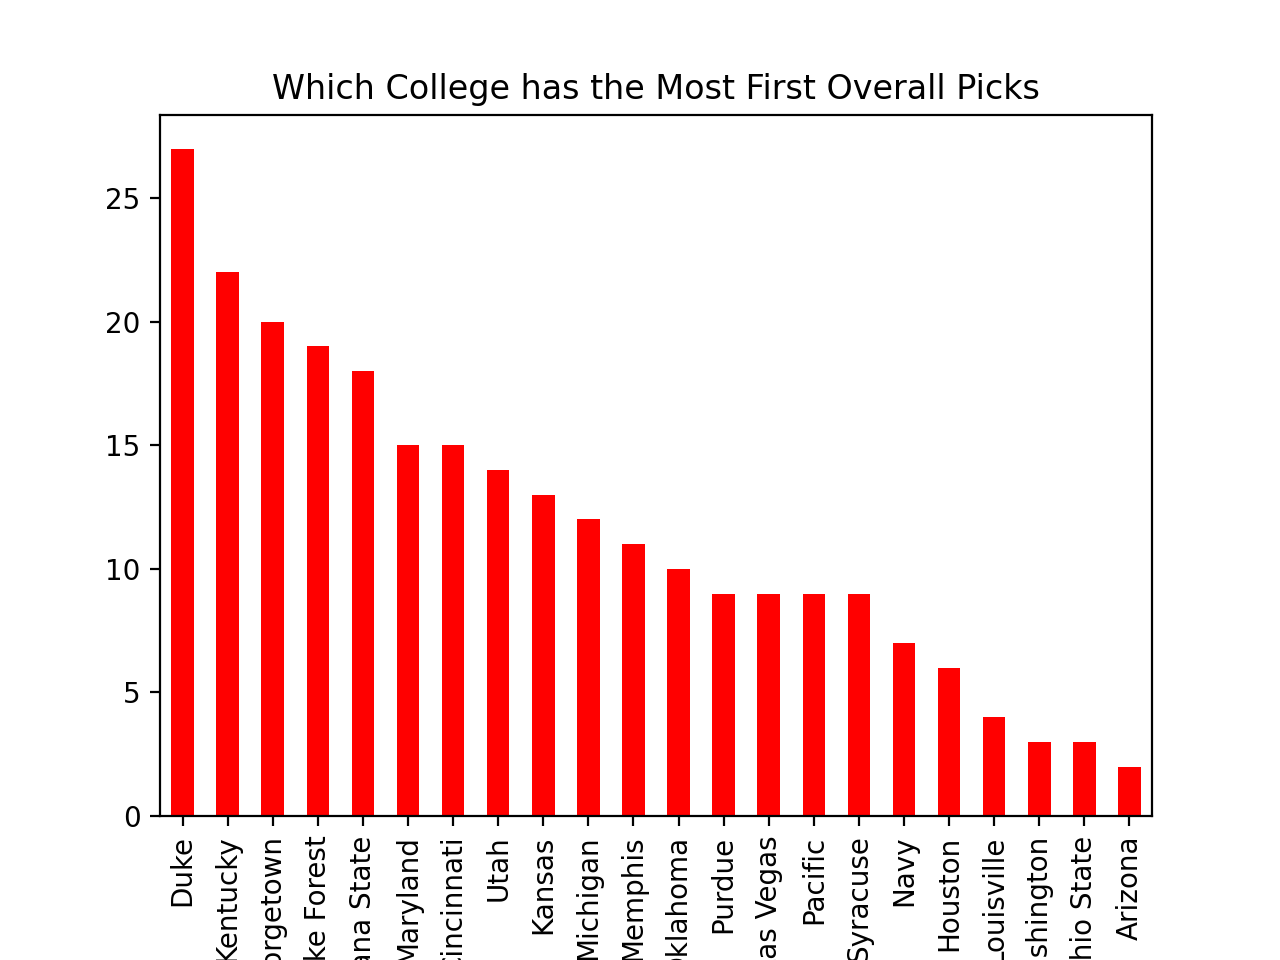
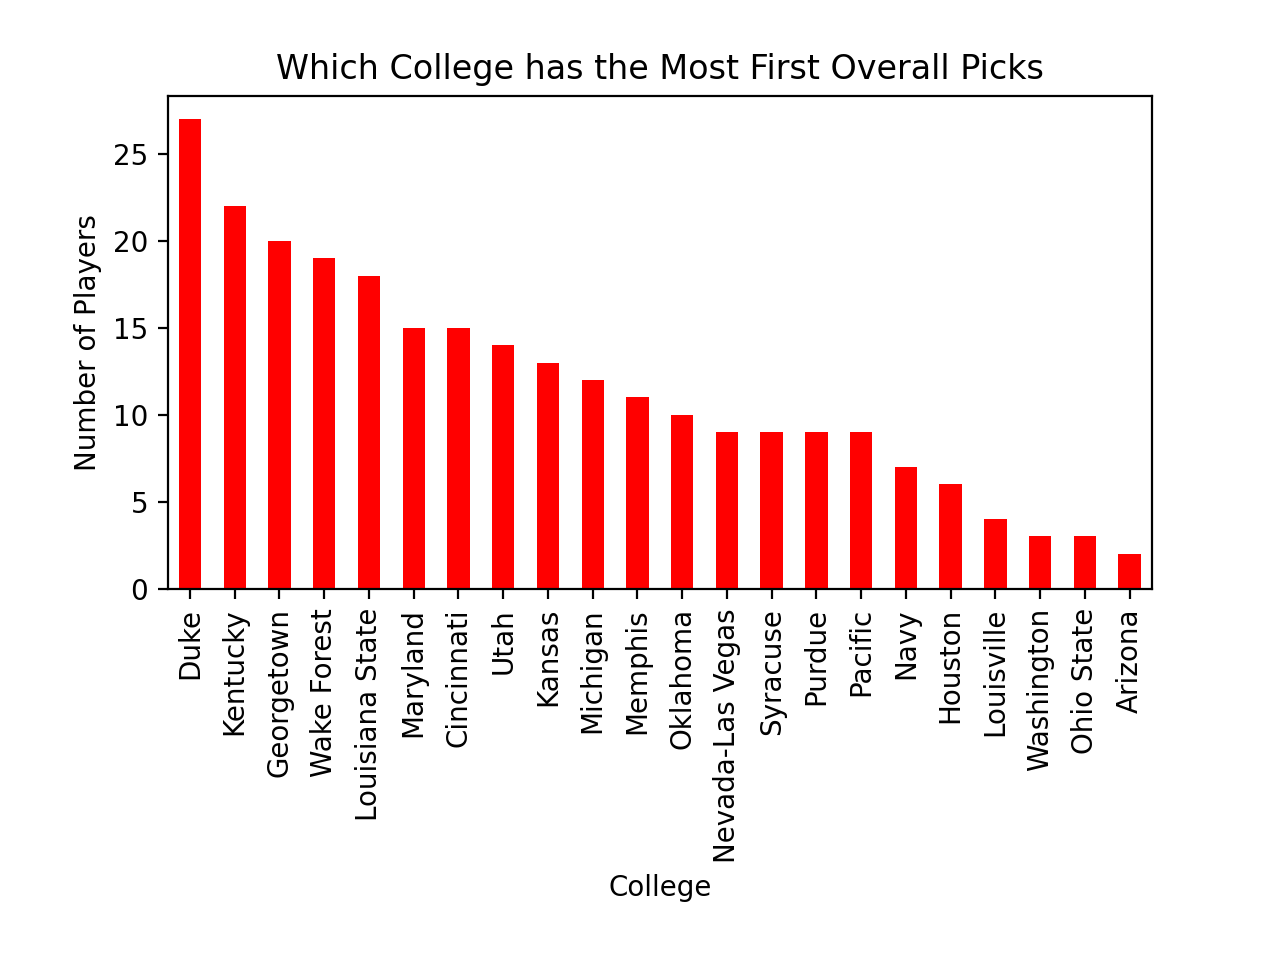
Question 5 Upload

Changed region(s): [[0.0625, 0.0625, 0.9062, 1.0], [0.5938, 0.9688, 0.625, 1.0]]

diff --git a/src/q1/data.py b/src/q1/data.py
@@ -1,30 +1,22 @@
-# IMPORTS
 import pandas as pd
 import matplotlib.pyplot as plt
-# Close all plots that may be open.
 plt.close('all')
-# Adjust the view of the plot to show more of the bottom of the plot
+plt.subplots_adjust(left=0.3, right=0.9, bottom=0.3, top=0.9)
 plt.gcf().subplots_adjust(bottom=0.15)
-# Read the CSV file.
 df = pd.read_csv('../all_seasons.csv')
-# Filter to see where its a first overall pick or not.
 first_overall = df['draft_number']=='1'
-# Make a new dataframe that has only players that are first overall
 df1 = df[first_overall]
-# Make a dataframe that filters by college
 df2 = df1[['college']]
-# Dataframe that holds all the college values(total amount of colleges)
 df3 = df2['college'].value_counts()
-# Dataframe that holds the head of the data
 df4 = df3.head(28)
 df5 = df4.iloc[1:]
-# Plot the graph
-df5.plot(
+graph = df5.plot(
     kind='bar',
     x='college',
     y='count',
     title='Which College has the Most First Overall Picks',
     color='red'
 )
-# Show the graph
+graph.set_xlabel("College")
+graph.set_ylabel("Number of Players")
 plt.show()

diff --git a/src/q5/data.py b/src/q5/data.py
@@ -1,8 +1,7 @@
 import pandas as pd
 import matplotlib.pyplot as plt
-from data1 import *
-from data2 import *
 plt.close('all')
-plt.gcf().subplots_adjust(bottom=0.15)
-print(dfs.head(10))
-print(dft.head(10))
+data = {'Height': ['Tall', 'Short'],'Points': [7.730298668585823, 8.520619294791482], 'Assists': [1.1263404102195034, 2.473080365133345]}
+df = pd.DataFrame(data, columns = ['Height', 'Points', 'Assists'])
+graph = df.plot.bar(color=['red', 'blue'], title="Epic Graph\nAnother Line! Whoa", x='Height')
+plt.show()

diff --git a/src/q5/data2.py b/src/q5/data2.py
@@ -4,4 +4,9 @@ dfs = pd.read_csv('../all_seasons.csv')
 short = dfs['player_height']<=200.8
 # NOTE: This DataFrame contains the data for those below average height in the NBA.
 dfs1 = dfs[short]
-print(dfs1.head(10))
+dfs2 = dfs1[['pts']]
+dfs3 = dfs1[['ast']]
+dfs4 = dfs2['pts'].mean()
+dfs5 = dfs3['ast'].mean()
+print(dfs4)
+print(dfs5)

diff --git a/src/q5/data1.py b/src/q5/data1.py
@@ -4,3 +4,9 @@ dft = pd.read_csv('../all_seasons.csv')
 tall = dft['player_height']>=200.8
 # NOTE: This DataFrame contains the data for those above average height in the NBA.
 dft1 = dft[tall]
+dft2 = dft1[['pts']]
+dft3 = dft1[['ast']]
+dft4 = dft2['pts'].mean()
+dft5 = dft3['ast'].mean()
+print(dft4)
+print(dft5)

diff --git a/src/q4/data.py b/src/q4/data.py
@@ -4,7 +4,6 @@ plt.close('all')
 pd.set_option('display.max_columns', 500)
 plt.gcf().subplots_adjust(bottom=0.15)
 df = pd.read_csv('../all_seasons.csv')
-print(df['player_height'].mean())
 # NOTE: Average height is 6'7", or 79", or 200.8 cm.
 above = df['player_height']>=200.8
 df1 = df[above]
